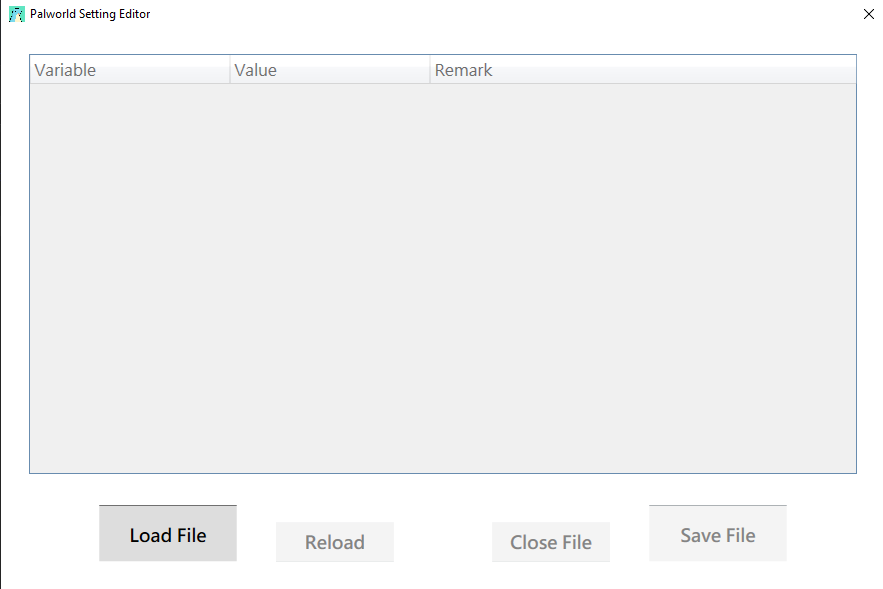
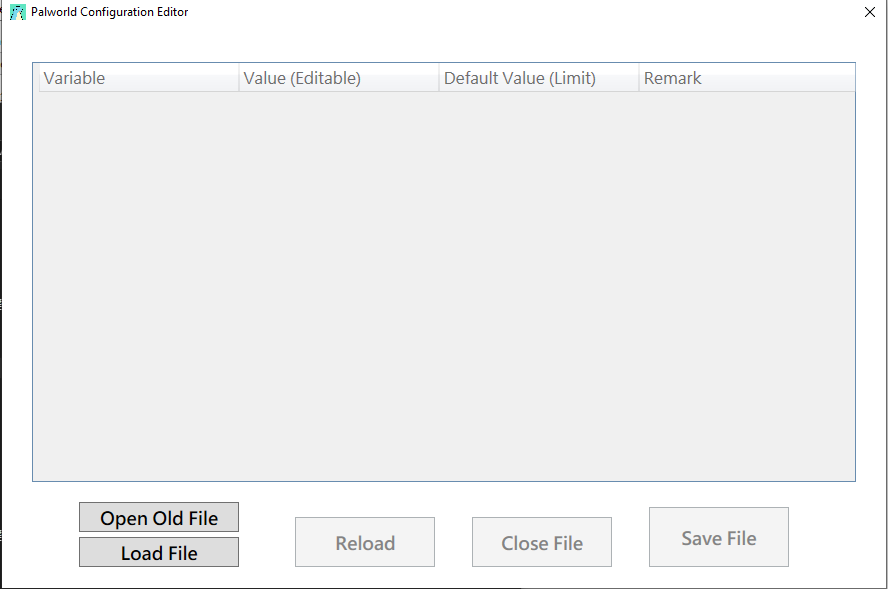
Update README.md

diff --git a/README_EN.md b/README_EN.md
@@ -1,73 +1,95 @@
 # Palworld Server Setting Editor
 
-### Created for convenient modification of settings; some code may not be very user-friendly.
+### Created for easy modification of settings; some code may not be user-friendly.
 
-### Feel free to use it, but I cannot guarantee there are no errors. It has been tested and works fine for me.
+### Feel free to use, but I cannot guarantee the absence of errors. It has been tested and found to be functional.
 
-### [Releases](https://github.com/murayuki/PalWorld-SettingTools/releases)
+### [Latest Release](https://github.com/murayuki/Palworld-SettingTools/releases/latest)
 
-# Notes
+# Important Notes
 
-> All translations with `_EN` in `json` are provided by `ChatGPT`.
+> ##### **Game Version: `0.1.2.0+` (except for official variable modifications)**
+
+> All translations with `_EN` in the `json` file come from `ChatGPT`.
 
 - **A01:**
   
-  - **For English comments, rename `Remark_EN.json` to `Remark.json`.**
+  - **If you need English annotations, rename `data_EN.json` to `data.json`.**
 
 - **A02:**
   
-  - ~~**The program language is `Traditional Chinese`.**~~
+  - **Choose the language file `I18n.json`/`I18n_EN.json`.**
   
-  - ~~**If you need English, construct the `EXE executable file` yourself. Basic knowledge of C# and basic operations in Visual Studio (developed using 2022) is required.**~~
+  - **If not available, translate it yourself, just ensure the filename is `I18n.json`.**
+
+- ##### **Update Information**
   
-  - **Choose the language file `I18n.json`/`I18n_EN.json` yourself.**
+  - Added recording of the last opened file path (program automatically generates an INI settings file for recording).
   
-  - **If not available, translate it yourself; just ensure the file name is `I18n.json`.**
+  - Changed `Remark` file recording method to `data` and modified data structure.
+  
+  - Added "Input Type Verification" with error prompts.
+  
+  - Added display of `Default Value` and `Adjustable Range`.
+    
+    - If a larger numerical value is needed, modify the `data` file accordingly.
 
 # Features
 
-* ##### **Interface-based modification of variable values.**
+* ##### **Interface for modifying variable values**
 
-* ##### **Read and edit the `PalWorldSettings.ini` file.**
+* ##### **Reads and edits the `PalWorldSettings.ini` file**
 
-* ##### **Interface-based sorting of variables in the `PalWorldSettings.ini` file.**
+* ##### **Organizes the variables in the `PalWorldSettings.ini` file in the interface**
+
+* ##### **Annotates variables with explanatory remarks**
   
-* ##### **Annotate variables with remarks.**
-
   ![img03_EN](./Images/img03_EN.png)
 
-* ##### Image Feature Overview
+* ##### Image Feature Explanation
   
-  - **(1) Numeric input box**
+  - **(1) Value Editing Box**
   
-  - **(2) Load File (Simply select the directory of `PalWorldSettings.ini` to automatically retrieve it)**
+  - **(2) Open Last Opened File**
   
-  - **(3) File loaded status; if editing goes wrong, you can reload the original values.**
+  - **(3) Load File (Select the directory containing `PalWorldSettings.ini` for automatic retrieval)**
   
-  - **(4) Close file (without saving)**
+  - **(4) Status of the loaded file; if editing errors occur, you can reload the original values**
   
-  - **(5) Save file and close**
+  - **(5) Close File (Without Saving)**
+  
+  - **(6) Save File and Close**
 
-# Image Overview
+# Image Introduction
 
-![img03_EN](./Images/img01_EN.png)
+![img01_EN](./Images/img01_EN.png)
 
-![img03_EN](./Images/img02_EN.png)
+![img02_EN](./Images/img02_EN.png)
 
-# Data Sources
+# Data Source
 
-#### **About the remarks in the `Remark.json` file:**
+#### **Regarding the remarks in the `data.json` file, the following sources:**
 
 - [Palworld tech guide - Optimize game balance (palworldgame.com)](https://tech.palworldgame.com/optimize-game-balance)
 
-- [【Discussion】Server parameter difficulty adjustment sharing @Palworld - Bahamut (gamer.com.tw)](https://forum.gamer.com.tw/C.php?bsn=71458&snA=227)
+- [【討論】伺服器參數難度調整分享 @幻獸帕魯 哈啦板 - 巴哈姆特 (gamer.com.tw)](https://forum.gamer.com.tw/C.php?bsn=71458&snA=227)
   
-  - **Special thanks to [DANIEL6505](https://home.gamer.com.tw/daniel6505) for sharing, organizing, and testing on Bahamut Forum.**
+  - **Special thanks to [DANIEL6505](https://home.gamer.com.tw/daniel6505) for sharing `organization` and `testing`.**
 
-- **Dependencies are sourced from open network resources; if needed, please find them yourself. Only sources I remember are listed here.**
+- [【情報】伺服器參數表 (附單機模式對照) @幻獸帕魯 哈啦板 - 巴哈姆特 (gamer.com.tw)](https://forum.gamer.com.tw/C.php?bsn=71458&snA=466)
+  
+  - **Thanks to [jorden2895 (Jiaa)](https://home.gamer.com.tw/jorden2895) for the `reference table`.**
+
+- [【密技】手把手教學，如何提升Dedicated Server據點帕魯數量上限的方法。（在系統預設範圍內） @幻獸帕魯 哈啦板 - 巴哈姆特 (gamer.com.tw)](https://forum.gamer.com.tw/C.php?bsn=71458&snA=661)
+  
+  - Regarding BaseCampWorkerMaxNum, it currently cannot exceed `20`.
+  - Thanks to [ivan880613](https://home.gamer.com.tw/ivan880613) for the `step-by-step tutorial`.
+    - Originally from [Dedicated Server - Increase Pal Base Worker limit? :: Palworld / 幻獸帕魯 綜合討論 (steamcommunity.com)](https://steamcommunity.com/app/1623730/discussions/0/4132683013933660878/)
+
+- **Dependencies used come from open-source internet resources; if needed, please find them on your own. Here, only those with known sources are listed.**
   
   - [Bunny83/SimpleJSON: A simple JSON parser in C# (github.com)](https://github.com/Bunny83/SimpleJSON)
   
-  - **<u>Apologies for not being able to list sources for dependencies I can't recall.</u>**
+  - **<u>Apologies for not being able to list the sources of dependencies; feel free to find them as needed.</u>**
 
 > ##### LICENSE `GPL-3.0 license`

diff --git a/README.md b/README.md
@@ -6,27 +6,37 @@
 
 ### 需要請自取, 當然我不能保證不會有錯誤, 目前自己測試是正常的
 
-### [發布 (Releases)](https://github.com/murayuki/PalWorld-SettingTools/releases)
+### [發布 Release (Latest)](https://github.com/murayuki/Palworld-SettingTools/releases/latest)
 
 # 注意事項
+
+> ##### **遊戲版本: `0.1.2.0+` (除官方修改變數)**
 
 > 所有帶有 `_EN` 的 `json`  翻譯都來自 `ChatGPT`
 
 - **A01:**
   
-  - **如果是需要英文備註請將 `Remark_EN.json` 重新命名為 `Remark.json`**
+  - **如果是需要英文備註請將 `data_EN.json` 重新命名為 `data.json`**
 
 - **A02:**
-  
-  - ~~**程式中的語言為 `繁體中文`**~~
-  
-  - ~~**如果需要英文請自行建構 `EXE執行文件` 需要對 C# 有基本能力以及 Visual Studio 的基本操作 (開發使用 2022)**~~
   
   - **請自行選擇語言文件 `I18n.json`/`I18n_EN.json`**
   
   - **如果沒有請自行翻譯只要檔案名稱是 `I18n.json` 即可**
 
-# 功能特點
+- ##### **更新資訊**
+  
+  - 新增 紀錄上次開啟文件路徑 (程式自動生成 ini 設定文件用於紀錄)
+  
+  - 變更 `Remark` 文件記錄方式轉為 `data`並修改資料結構
+  
+  - 新增 `判定輸入類型` 輸入錯誤彈出提示
+  
+  - 新增 顯示 `預設值` 以及 `可調整範圍` 
+    
+    - 可調整範圍如果需要`更大數值`請自行修改 `data` 文件
+
+# 功能
 
 * ##### **介面化修改變量數值**
 
@@ -36,19 +46,21 @@
 
 * ##### **將變量標註備註說明**
   
-  ![./Images/img03.png](./Images/img03.png)
+  ![img03](./Images/img03.png)
 
 * ##### 圖片功能介紹
   
   - **(1) 數值編輯框**
   
-  - **(2) 讀取文件 (請直接選擇 `PalWorldSettings.ini` 所在目錄即可自動獲取)**
+  - **(2) 開啟上次開啟文件**
   
-  - **(3) 已讀取文件狀態, 如果編輯錯誤可以直接重新讀取原數值**
+  - **(3) 讀取文件 (請直接選擇 `PalWorldSettings.ini` 所在目錄即可自動獲取)**
   
-  - **(4) 關閉文件 (不保存)**
+  - **(4) 已讀取文件狀態, 如果編輯錯誤可以直接重新讀取原數值**
   
-  - **(5) 保存文件並關閉文件**
+  - **(5) 關閉文件 (不保存)**
+  
+  - **(6) 保存文件並關閉文件**
 
 # 圖片介紹
 
@@ -58,13 +70,23 @@
 
 # 資料來源
 
-#### **關於 `Remark.json`文件中的備註資料下列**
+#### **關於 `data.json`文件中的備註資料下列**
 
 - [Palworld tech guide - Optimize game balance (palworldgame.com)](https://tech.palworldgame.com/optimize-game-balance)
 
 - [【討論】伺服器參數難度調整分享 @幻獸帕魯 哈啦板 - 巴哈姆特 (gamer.com.tw)](https://forum.gamer.com.tw/C.php?bsn=71458&snA=227)
   
   - **特別感謝 [DANIEL6505](https://home.gamer.com.tw/daniel6505) 巴哈版網友的分享`整理`和`測試`**
+
+- [【情報】伺服器參數表 (附單機模式對照) @幻獸帕魯 哈啦板 - 巴哈姆特 (gamer.com.tw)](https://forum.gamer.com.tw/C.php?bsn=71458&snA=466)
+  
+  - **感謝 [jorden2895 (Jiaa)](https://home.gamer.com.tw/jorden2895) 巴哈版網友 整理的`對照表`**
+
+- [【密技】手把手教學，如何提升Dedicated Server據點帕魯數量上限的方法。（在系統預設範圍內） @幻獸帕魯 哈啦板 - 巴哈姆特 (gamer.com.tw)](https://forum.gamer.com.tw/C.php?bsn=71458&snA=661)
+  
+  - 關於 BaseCampWorkerMaxNum 目前不能超過 `20`
+  - 感謝 [ivan880613](https://home.gamer.com.tw/ivan880613) 巴哈版網友 `圖文教學`
+    - 原始來自 [Dedicated Server - Increase Pal Base Worker limit? :: Palworld / 幻獸帕魯 綜合討論 (steamcommunity.com)](https://steamcommunity.com/app/1623730/discussions/0/4132683013933660878/)
 
 - **所使用依賴來自網路開源資源, 如果需要請自行尋找這邊只列出我還記得的來源出處的**
   
